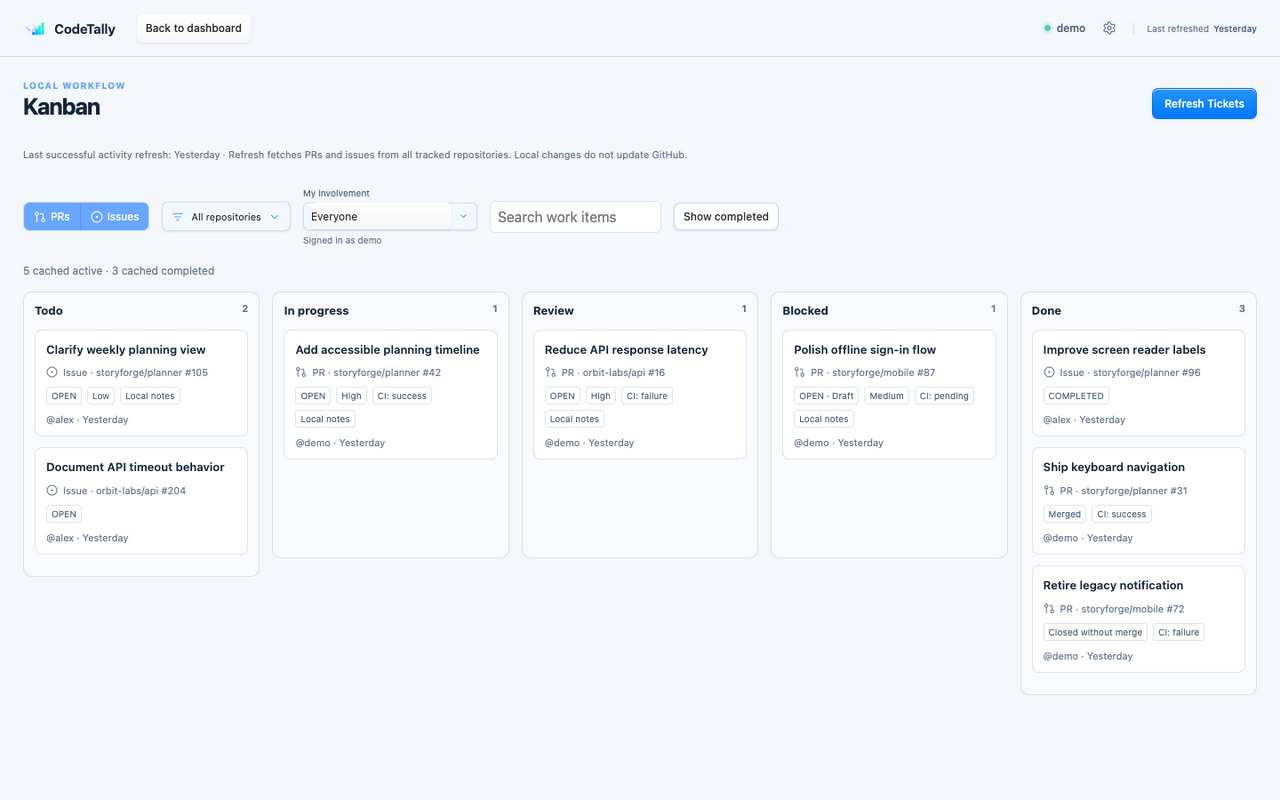
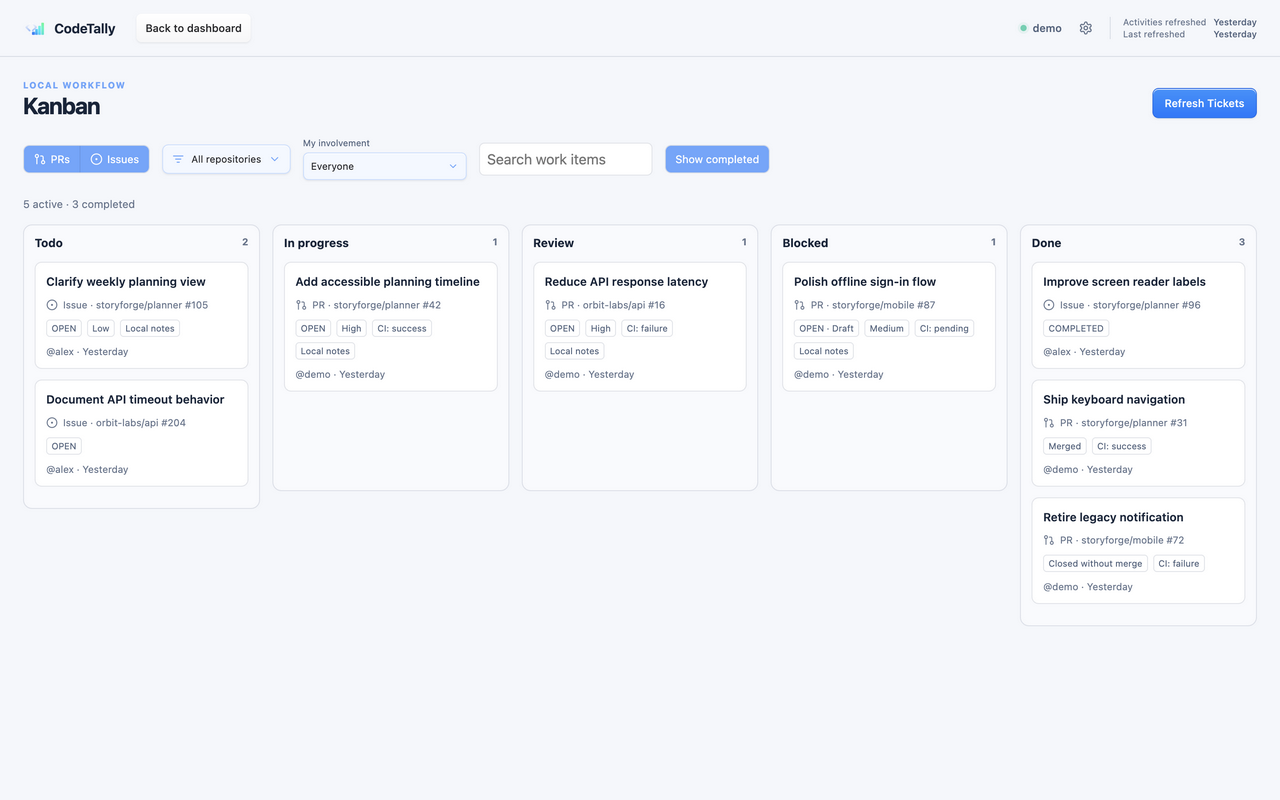
Refine Kanban filters and activity refresh status

diff --git a/src/App.tsx b/src/App.tsx
@@ -2,7 +2,7 @@ import { listen } from '@tauri-apps/api/event'
 import { useCallback, useEffect, useLayoutEffect, useMemo, useRef, useState, type CSSProperties } from 'react'
 import { AreaChart, CartesianGrid, Line, LineChart, ResponsiveContainer, Tooltip, XAxis, YAxis } from 'recharts'
 import { AlertCircle, ArrowDown, ArrowLeft, ArrowUp, BarChart3, Check, ChevronDown, ChevronUp, CircleDot, ExternalLink, GitBranch, GitPullRequest, Github, HardDrive, ListFilter, LoaderCircle, Settings, Terminal, X, Zap } from 'lucide-react'
-import { checkDependencies, discoverRepositories, getActivityFeed, getAppSettings, getDashboard, getGithubUser, getLocHistory, getSyncProgress, openExternalUrl, setAppSettings, syncActivity, syncGithubData, syncWorkItems } from './api'
+import { checkDependencies, discoverRepositories, getActivityFeed, getActivityRefreshAt, getAppSettings, getDashboard, getGithubUser, getLocHistory, getSyncProgress, openExternalUrl, setAppSettings, syncActivity, syncGithubData, syncWorkItems } from './api'
 import type { ActivityRelationship, AppSettings, DashboardData, DependencyStatus, FeedKind, Issue, LocSnapshot, PullRequest, Repository, SyncProgress, TimeRange } from './types'
 import { aggregateHistory, filterIssues, filterPullRequests, isDraft, isMerged, sortRepositories, type FeedState } from './model'
 import { activityRepo, exactDate, formatCompact, formatCount, formatSigned, normalizeDashboard, normalizeLabels, relativeTime, repoActivity, repoBaseline30Available, repoChange, repoChangePercent, repoForks, repoLocAvailable, repoName, repoOpenIssues, repoOpenPrs, repoSource, repoStars, repoTests, repoTotal, repositoryId, repositoryLabel } from './utils'
@@ -226,6 +226,21 @@ function App() {
     }
   }, [applyDashboard, screen, selectedRepoId])
 
+  const refreshActivityTimestamp = useCallback(() => {
+    void getActivityRefreshAt().then((timestamp) => {
+      setDashboard((current) => {
+        const existing = current.last_activity_refresh_at
+        if (existing && (!timestamp || new Date(existing).getTime() > new Date(timestamp).getTime())) return current
+        return { ...current, last_activity_refresh_at: timestamp }
+      })
+    }).catch(() => undefined)
+  }, [])
+
+  const refreshActivityCache = useCallback(() => {
+    setFeedRevision((current) => current + 1)
+    refreshActivityTimestamp()
+  }, [refreshActivityTimestamp])
+
   const refreshData = useCallback(async (automatic = false) => {
     if (syncingRef.current || importingRef.current) return
     syncingRef.current = true
@@ -321,7 +336,7 @@ function App() {
         } else if (wasRunning) {
           wasRunning = false
           if (workItemsOnly || progress.phase === 'work_items_complete') {
-            setFeedRevision((current) => current + 1)
+            refreshActivityCache()
           } else await loadFinalData()
           workItemsOnly = false
         }
@@ -338,7 +353,7 @@ function App() {
     const timer = window.setInterval(() => void poll(), 2000)
     window.addEventListener('focus', onFocus)
     return () => { alive = false; unlisten?.(); window.clearInterval(timer); window.removeEventListener('focus', onFocus) }
-  }, [loadFinalData, refreshCachedData])
+  }, [loadFinalData, refreshCachedData, refreshActivityCache])
 
   useEffect(() => {
     if (!syncing && !importing) return
@@ -624,13 +639,20 @@ function App() {
               if (!syncPopoverPinned && !event.currentTarget.contains(event.relatedTarget as Node | null)) setSyncPopoverOpen(false)
             }}
           >
-            <div className="refresh-timestamps" tabIndex={0} aria-label="Last refresh">
-              <span title={dashboard.last_full_refresh_at ? exactDate(dashboard.last_full_refresh_at) : 'No successful Repo Refresh or Force Refresh has completed. Partial or failed attempts do not set this time.'}>Last refreshed <strong>{dashboard.last_full_refresh_at ? relativeTime(dashboard.last_full_refresh_at) : 'Not recorded'}</strong></span>
+            <div className="refresh-timestamps" tabIndex={0} aria-label="Refresh times">
+              <div className="refresh-timestamp-list">
+                <span title={dashboard.last_activity_refresh_at ? exactDate(dashboard.last_activity_refresh_at) : 'No successful all-repository PR and issue refresh has completed.'}>Activities refreshed <strong>{dashboard.last_activity_refresh_at ? relativeTime(dashboard.last_activity_refresh_at) : 'Not recorded'}</strong></span>
+                <span title={dashboard.last_full_refresh_at ? exactDate(dashboard.last_full_refresh_at) : 'No successful Repo Refresh or Force Refresh has completed. Partial or failed attempts do not set this time.'}>Last refreshed <strong>{dashboard.last_full_refresh_at ? relativeTime(dashboard.last_full_refresh_at) : 'Not recorded'}</strong></span>
+              </div>
               {syncActive && <span className="refresh-running" role="status" aria-label={importing ? 'Importing' : 'Refreshing'}><LoaderCircle size={13} className="spin" aria-hidden="true" /></span>}
             </div>
             {syncDetailsAvailable && syncPopoverOpen && <div className="sync-popover" role="dialog" aria-label={syncActive ? 'Refresh details' : 'Last refresh'}>
               <div className="sync-popover-heading"><span>{syncActive ? 'Refresh details' : 'Last refresh'}</span><button className="icon-button subtle" type="button" aria-label="Close refresh details" onClick={() => { syncPopoverDismissedRef.current = true; setSyncPopoverOpen(false); setSyncPopoverPinned(false) }}><X size={14} /></button></div>
-              {syncActive ? <SyncProgressPanel progress={syncPopoverProgress} /> : <time className="sync-popover-date" dateTime={dashboard.last_full_refresh_at ?? undefined}>{dashboard.last_full_refresh_at ? exactDate(dashboard.last_full_refresh_at) : 'Not recorded'}</time>}
+              <div className="sync-popover-timestamps">
+                <div><span>Activities refreshed</span><time dateTime={dashboard.last_activity_refresh_at ?? undefined}>{dashboard.last_activity_refresh_at ? exactDate(dashboard.last_activity_refresh_at) : 'Not recorded'}</time></div>
+                <div><span>Last refreshed</span><time dateTime={dashboard.last_full_refresh_at ?? undefined}>{dashboard.last_full_refresh_at ? exactDate(dashboard.last_full_refresh_at) : 'Not recorded'}</time></div>
+              </div>
+              {syncActive && <SyncProgressPanel progress={syncPopoverProgress} />}
             </div>}
           </div>
         </div>
@@ -640,7 +662,7 @@ function App() {
 
       {busy && !dashboard.repositories.length ? <LoadingScreen /> : isSetup ? <SetupScreen deps={deps} login={login} error={error} importing={importing} importStep={importStep} checking={checkingDependencies} onImport={() => void importRepositories()} onRetry={checkSetupConnection} /> : (
         <div className={screen === 'kanban' && appSettings.kanban_enabled ? 'content-shell kanban-shell' : 'content-shell'}>
-          {screen === 'kanban' && appSettings.kanban_enabled ? <KanbanBoard repositories={activeRepositories} login={login} relationship={feedRelationship} onRelationship={handleFeedRelationship} onBack={backToDashboard} revision={feedRevision} /> : screen === 'dashboard' ? (
+          {screen === 'kanban' && appSettings.kanban_enabled ? <KanbanBoard repositories={activeRepositories} login={login} relationship={feedRelationship} onRelationship={handleFeedRelationship} onBack={backToDashboard} onActivityRefreshed={refreshActivityTimestamp} revision={feedRevision} /> : screen === 'dashboard' ? (
             <main className="main-column">
               {deps.gh && !dependenciesAuthenticated(deps) && <GitHubConnection deps={deps} login={login} compact checking={checkingDependencies} onRetry={checkSetupConnection} />}
               {activeRepositories.length === 0 ? <EmptySelectionState onOpenSettings={() => setSettingsOpen(true)} /> : <>
@@ -653,7 +675,7 @@ function App() {
           ) : selectedRepo ? (
             <RepositoryDetails repo={selectedRepo} history={visibleHistory} historyLoading={detailLoading} metric={metric} range={range} onMetric={setMetric} onRange={setRange} onBack={backToDashboard} pullRequests={detailPrs} issues={detailIssues} onOpenUrl={(url) => void openUrl(url, setError)} />
           ) : null}
-          {screen !== 'kanban' && <ActivitySidebar asOf={feedRelationship === 'everyone' ? dashboard.last_activity_refresh_at : dashboard.last_personal_refresh_at} onActivityRefreshed={() => setFeedRevision((current) => current + 1)} syncBusy={syncActive} activityProgress={syncProgress} login={login} kind={feedKind} state={feedState} relationship={feedRelationship} repository={feedRepo} lockedRepository={screen === 'detail' && selectedRepo ? String(repositoryId(selectedRepo)) : null} repositories={activeRepositories} prs={filteredPrs} issues={filteredIssues} onKind={handleFeedKind} onState={handleFeedState} onRelationship={handleFeedRelationship} onRepository={handleFeedRepository} onOpenUrl={(url) => void openUrl(url, setError)} />}
+          {screen !== 'kanban' && <ActivitySidebar asOf={feedRelationship === 'everyone' ? dashboard.last_activity_refresh_at : dashboard.last_personal_refresh_at} onActivityRefreshed={refreshActivityCache} syncBusy={syncActive} activityProgress={syncProgress} login={login} kind={feedKind} state={feedState} relationship={feedRelationship} repository={feedRepo} lockedRepository={screen === 'detail' && selectedRepo ? String(repositoryId(selectedRepo)) : null} repositories={activeRepositories} prs={filteredPrs} issues={filteredIssues} onKind={handleFeedKind} onState={handleFeedState} onRelationship={handleFeedRelationship} onRepository={handleFeedRepository} onOpenUrl={(url) => void openUrl(url, setError)} />}
         </div>
       )}
 
@@ -701,7 +723,8 @@ function SyncProgressPanel({ progress }: { progress: SyncProgress }) {
   const counts = progressCounts(progress)
   const overallLabel = counts.repositoriesTotal > 0 ? `Repositories ${counts.repositoriesCurrent} / ${counts.repositoriesTotal}` : 'Waiting for repository count'
   const samplesLabel = counts.snapshotsTotal > 0 ? `Lines scanned ${counts.snapshotsCurrent} / ${counts.snapshotsTotal}` : null
-  return <section className="sync-progress-panel" aria-live="polite"><div className="sync-progress-heading"><div><p className="eyebrow">{progress.running ? readablePhase(progress.phase) : 'Last refresh'}</p><strong>{progress.message || readablePhase(progress.phase)}</strong>{progress.repository_name && <span>{progress.repository_name}</span>}</div><span className={progress.running ? 'sync-progress-state active' : 'sync-progress-state'}>{progress.running ? 'Updating' : 'Updated'}</span>{progress.error && <div className="sync-progress-error"><AlertCircle size={13} /> {progress.error}</div>}</div><div className="sync-progress-bars"><div className="sync-progress-row"><div><span>Repository progress</span><b>{overallLabel}</b></div><ProgressMeter value={counts.repositoriesCurrent} max={counts.repositoriesTotal} label="Repository progress" /></div><div className="sync-progress-row samples"><div><span>Current line scan</span><b>{samplesLabel ?? 'Waiting to scan lines'}</b></div><ProgressMeter value={counts.snapshotsCurrent} max={counts.snapshotsTotal} label="Current line scan progress" /></div></div></section>
+  const activityOnly = progress.phase.includes('work_items')
+  return <section className="sync-progress-panel" aria-live="polite"><div className="sync-progress-heading"><div><p className="eyebrow">{progress.running ? readablePhase(progress.phase) : 'Last refresh'}</p><strong>{progress.message || readablePhase(progress.phase)}</strong>{progress.repository_name && <span>{progress.repository_name}</span>}</div><span className={progress.running ? 'sync-progress-state active' : 'sync-progress-state'}>{progress.running ? 'Updating' : 'Updated'}</span>{progress.error && <div className="sync-progress-error"><AlertCircle size={13} /> {progress.error}</div>}</div><div className="sync-progress-bars"><div className="sync-progress-row"><div><span>Repository progress</span><b>{overallLabel}</b></div><ProgressMeter value={counts.repositoriesCurrent} max={counts.repositoriesTotal} label="Repository progress" /></div>{!activityOnly && <div className="sync-progress-row samples"><div><span>Current line scan</span><b>{samplesLabel ?? 'Waiting to scan lines'}</b></div><ProgressMeter value={counts.snapshotsCurrent} max={counts.snapshotsTotal} label="Current line scan progress" /></div>}</div></section>
 }
 
 function SetupScreen({ deps, login, error, importing, importStep, checking, onImport, onRetry }: { deps: DependencyStatus; login: string; error: string | null; importing: boolean; importStep: string; checking: boolean; onImport: () => void; onRetry: () => void | Promise<void> }) {
@@ -894,7 +917,7 @@ function ActivitySidebar({ asOf, onActivityRefreshed, syncBusy, activityProgress
   const effectiveAsOf = refreshedAt && (!asOf || new Date(refreshedAt).getTime() > new Date(asOf).getTime()) ? refreshedAt : asOf
   const feed = kind === 'prs' ? prs : issues
   const selectedRepository = lockedRepository ?? repository
-  return <aside className="activity-sidebar"><div className="sidebar-sticky"><div className="sidebar-heading"><div><p className="eyebrow">Live feed <span className="feed-count">{feed.length}</span></p><h2>Recent activity</h2></div><button className="button primary compact activity-refresh-button" disabled={syncBusy || refreshing} title="Fetch PRs and issues from all tracked repositories without scanning lines of code" onClick={() => void refreshActivity()}>{refreshing ? 'Refreshing…' : 'Refresh Tickets'}</button></div><p className="activity-as-of" title={exactDate(effectiveAsOf)}>{relationship === 'everyone' ? 'All tracked activity' : 'Personal activity'} · As of {effectiveAsOf ? relativeTime(effectiveAsOf) : 'Not recorded'}</p>{refreshing || refreshMessage ? <p className="small-note" role="status">{refreshing && activityProgress?.phase.includes('work_items') ? activityProgress.message : refreshMessage}</p> : null}{refreshError && <p className="activity-refresh-error" role="alert">{refreshError}</p>}<div className="feed-tabs" role="tablist"><button className={kind === 'prs' ? 'active' : ''} onClick={() => onKind('prs')}><GitPullRequest size={14} aria-hidden="true" />Pull requests</button><button className={kind === 'issues' ? 'active' : ''} onClick={() => onKind('issues')}><CircleDot size={14} aria-hidden="true" />Issues</button></div><div className="feed-filters"><div className="filter-pills">{(kind === 'prs' ? (['all', 'open', 'merged'] as FeedState[]) : (['all', 'open', 'closed'] as FeedState[])).map((key) => <button key={key} className={state === key ? 'active' : ''} onClick={() => onState(key)}>{key[0].toUpperCase() + key.slice(1)}</button>)}</div><ActivityInvolvementFilter id="activity-involvement-select" value={relationship} login={login} onChange={onRelationship} /><ActivityRepositoryMenu repositories={repositories} login={login} value={selectedRepository} disabled={Boolean(lockedRepository)} onChange={onRepository} /></div></div><div className="feed-list">{feed.length ? feed.map((item) => kind === 'prs' ? <PullRequestItem key={`${activityRepo(item)}-${item.number}`} item={item} onOpen={() => onOpenUrl(item.url)} /> : <IssueItem key={`${activityRepo(item)}-${item.number}`} item={item} onOpen={() => onOpenUrl(item.url)} />) : <div className="feed-empty"><CircleDot size={21} /><p>No {kind === 'prs' ? 'pull requests' : 'issues'} match these filters</p><span>Activity will appear here after the next refresh.</span></div>}</div></aside>
+  return <aside className="activity-sidebar"><div className="sidebar-sticky"><div className="sidebar-heading"><div><p className="eyebrow">Live feed <span className="feed-count">{feed.length}</span></p><h2>Recent activity</h2></div><button className="button primary compact activity-refresh-button" disabled={syncBusy || refreshing} title="Fetch PRs and issues from all tracked repositories without scanning lines of code" onClick={() => void refreshActivity()}>{refreshing ? 'Refreshing…' : 'Refresh Tickets'}</button></div><p className="activity-as-of" title={exactDate(effectiveAsOf)}>{relationship === 'everyone' ? 'All tracked activity' : 'Personal activity'} · As of {effectiveAsOf ? relativeTime(effectiveAsOf) : 'Not recorded'}</p>{refreshing || refreshMessage ? <p className="small-note" role="status">{refreshing && activityProgress?.phase.includes('work_items') ? activityProgress.message : refreshMessage}</p> : null}{refreshError && <p className="activity-refresh-error" role="alert">{refreshError}</p>}<div className="feed-tabs" role="tablist"><button className={kind === 'prs' ? 'active' : ''} onClick={() => onKind('prs')}><GitPullRequest size={14} aria-hidden="true" />Pull requests</button><button className={kind === 'issues' ? 'active' : ''} onClick={() => onKind('issues')}><CircleDot size={14} aria-hidden="true" />Issues</button></div><div className="feed-filters"><div className="filter-pills">{(kind === 'prs' ? (['all', 'open', 'merged'] as FeedState[]) : (['all', 'open', 'closed'] as FeedState[])).map((key) => <button key={key} className={state === key ? 'active' : ''} onClick={() => onState(key)}>{key[0].toUpperCase() + key.slice(1)}</button>)}</div><ActivityInvolvementFilter id="activity-involvement-select" value={relationship} onChange={onRelationship} /><ActivityRepositoryMenu repositories={repositories} login={login} value={selectedRepository} disabled={Boolean(lockedRepository)} onChange={onRepository} /></div></div><div className="feed-list">{feed.length ? feed.map((item) => kind === 'prs' ? <PullRequestItem key={`${activityRepo(item)}-${item.number}`} item={item} onOpen={() => onOpenUrl(item.url)} /> : <IssueItem key={`${activityRepo(item)}-${item.number}`} item={item} onOpen={() => onOpenUrl(item.url)} />) : <div className="feed-empty"><CircleDot size={21} /><p>No {kind === 'prs' ? 'pull requests' : 'issues'} match these filters</p><span>Activity will appear here after the next refresh.</span></div>}</div></aside>
 }
 
 function PullRequestItem({ item, onOpen }: { item: PullRequest; onOpen: () => void }) {

diff --git a/src/__tests__/App.test.tsx b/src/__tests__/App.test.tsx
@@ -278,6 +278,8 @@ function configureBackend({ dependencies = readyDependencies, syncResult = syncO
         }
       case 'get_dashboard':
         return dashboards[Math.min(dashboardIndex++, dashboards.length - 1)]
+      case 'get_activity_refresh_at':
+        return cachedDashboard.last_activity_refresh_at ?? null
       case 'discover_repositories':
         return null
       case 'get_loc_history': {
@@ -405,7 +407,7 @@ describe('dashboard UI', () => {
   })
   it('refreshes PRs and issues from the sidebar while Kanban is disabled without loading history', async () => {
     const backend = invokeMock.getMockImplementation()!
-    invokeMock.mockImplementation((command, args) => command === 'sync_work_items' ? Promise.resolve({ ...syncOk, message: 'Activity refresh finished' }) : backend(command, args))
+    invokeMock.mockImplementation((command, args) => command === 'sync_work_items' ? Promise.resolve({ ...syncOk, message: 'Activity refresh finished' }) : command === 'get_activity_refresh_at' ? Promise.resolve('2026-09-28T14:30:00Z') : backend(command, args))
     const user = await renderDashboard()
     const refresh = screen.getByRole('button', { name: 'Refresh Tickets' })
     await waitFor(() => expect(refresh).toBeEnabled())
@@ -413,6 +415,9 @@ describe('dashboard UI', () => {
     await user.click(refresh)
     await screen.findByText('Activity refresh finished')
     expect(invokeMock).toHaveBeenCalledWith('sync_work_items', undefined)
+    expect(invokeMock).toHaveBeenCalledWith('get_activity_refresh_at', undefined)
+    const titlebar = screen.getByRole('banner')
+    await waitFor(() => expect(within(titlebar).getByText('Activities refreshed').closest('span')).toHaveAttribute('title', expect.not.stringContaining('No successful')))
     expect(invokeMock.mock.calls.filter(([command]) => command === 'get_loc_history')).toHaveLength(histories)
     expect(screen.queryByRole('button', { name: /Kanban Board/ })).not.toBeInTheDocument()
   })
@@ -961,7 +966,7 @@ describe('dashboard UI', () => {
 
     try {
       await screen.findByRole('heading', { name: 'Code at a glance' })
-      const trigger = await screen.findByLabelText('Last refresh')
+      const trigger = await screen.findByLabelText('Refresh times')
 
       fireEvent.focus(trigger)
       expect(await screen.findByText(/Repositories 1 \/ 2/)).toBeInTheDocument()
@@ -987,9 +992,10 @@ describe('dashboard UI', () => {
       const titlebar = screen.getByRole('banner')
       expect(within(titlebar).queryByRole('button', { name: /Refresh/ })).not.toBeInTheDocument()
       expect(within(titlebar).getByText('Last refreshed')).toBeInTheDocument()
+      expect(within(titlebar).getByText('Activities refreshed')).toBeInTheDocument()
       expect(within(titlebar).queryByText('Line counts')).not.toBeInTheDocument()
       expect(within(titlebar).queryByText('Everything')).not.toBeInTheDocument()
-      expect(within(titlebar).getByText('Not recorded')).toBeInTheDocument()
+      expect(within(titlebar).getAllByText('Not recorded')).toHaveLength(2)
       expect(within(titlebar).getByText('Last refreshed').closest('span')).toHaveAttribute('title', 'No successful Repo Refresh or Force Refresh has completed. Partial or failed attempts do not set this time.')
       expect(screen.getByText('Personal activity · As of Not recorded')).toBeInTheDocument()
       await user.click(screen.getByRole('button', { name: 'Settings' }))
@@ -1006,12 +1012,27 @@ describe('dashboard UI', () => {
   it('shows only the last successful broad refresh date when idle', async () => {
     configureBackend({ cachedDashboard: { ...dashboard, last_full_refresh_at: '2026-09-27T10:30:00Z' }, progress: { running: false, phase: 'complete', current: 1, total: 1, repository_name: 'sam/old-repository', message: 'Ready' } })
     await renderDashboard()
-    fireEvent.focus(screen.getByLabelText('Last refresh'))
+    fireEvent.focus(screen.getByLabelText('Refresh times'))
     const details = await screen.findByRole('dialog', { name: 'Last refresh' })
     expect(within(details).getByText('Last refresh')).toBeInTheDocument()
-    expect(details.querySelector('time')).toHaveAttribute('dateTime', '2026-09-27T10:30:00Z')
+    expect(within(details).getByText('Activities refreshed').parentElement?.querySelector('time')).not.toHaveAttribute('dateTime')
+    expect(within(details).getByText('Last refreshed').parentElement?.querySelector('time')).toHaveAttribute('dateTime', '2026-09-27T10:30:00Z')
     expect(within(details).queryByText('Ready')).not.toBeInTheDocument()
     expect(within(details).queryByText('sam/old-repository')).not.toBeInTheDocument()
+  })
+
+  it('shows activity-only progress without a line scan', async () => {
+    const sync = deferred<SyncResult>()
+    configureBackend({ activitySyncPromise: sync.promise, progress: { running: true, phase: 'syncing_work_items', current: 1, total: 3, repository_current: 1, repository_total: 3, message: 'Refreshing PRs and issues' } })
+    try {
+      await renderDashboard()
+      fireEvent.focus(screen.getByLabelText('Refresh times'))
+      const details = await screen.findByRole('dialog', { name: 'Refresh details' })
+      expect(within(details).getByText('Refreshing PRs and issues')).toBeInTheDocument()
+      expect(within(details).getByRole('progressbar', { name: 'Repository progress' })).toBeInTheDocument()
+      expect(within(details).queryByText('Current line scan')).not.toBeInTheDocument()
+      expect(within(details).queryByRole('progressbar', { name: 'Current line scan progress' })).not.toBeInTheDocument()
+    } finally { sync.resolve(syncOk) }
   })
 
   it('returns to an idle Refresh control after completed automatic sync progress', async () => {
@@ -1691,7 +1712,7 @@ describe('dashboard UI', () => {
         for (let index = 0; index < 12; index += 1) await Promise.resolve()
       })
       expect(screen.getByRole('heading', { name: 'Code at a glance' })).toBeInTheDocument()
-      fireEvent.focus(screen.getByLabelText('Last refresh'))
+      fireEvent.focus(screen.getByLabelText('Refresh times'))
       const firstProgress = screen.getByText(/Repositories 1 \/ 7/)
       const firstPanel = firstProgress.closest('.sync-progress-panel')
       expect(firstPanel).not.toBeNull()
@@ -1774,7 +1795,7 @@ describe('dashboard UI', () => {
       expect(await screen.findByRole('heading', { name: 'Code at a glance' })).toBeInTheDocument()
       expect(screen.getByRole('heading', { name: 'Total Lines' })).toBeInTheDocument()
       expect(screen.queryByText('No LOC history for this range')).not.toBeInTheDocument()
-      fireEvent.focus(screen.getByLabelText('Last refresh'))
+      fireEvent.focus(screen.getByLabelText('Refresh times'))
       expect(screen.getByText(/Repositories 1 \/ 2/)).toBeInTheDocument()
 
       const dashboardCalls = invokeMock.mock.calls.filter(([command]) => command === 'get_dashboard')

diff --git a/src/kanban/KanbanBoard.tsx b/src/kanban/KanbanBoard.tsx
@@ -7,7 +7,7 @@ import type { ActivityRelationship, KanbanItem, KanbanKind, KanbanLinks, KanbanM
 import { relativeTime, repositoryId } from '../utils'
 import { COLUMNS, columnFor, isGitHubWorkUrl, type Column } from './model'
 
-export default function KanbanBoard({ repositories, login, relationship: defaultRelationship, revision }: { repositories: Repository[]; login: string; relationship: ActivityRelationship; onRelationship: (value: ActivityRelationship) => void; onBack: () => void; revision: number }) {
+export default function KanbanBoard({ repositories, login, relationship: defaultRelationship, revision, onActivityRefreshed }: { repositories: Repository[]; login: string; relationship: ActivityRelationship; onRelationship: (value: ActivityRelationship) => void; onBack: () => void; revision: number; onActivityRefreshed: () => void }) {
   const [kind, setKind] = useState<KanbanKind>('both')
   const [scope, setScope] = useState('all')
   const [relationship, setRelationship] = useState(defaultRelationship)
@@ -169,20 +169,19 @@ export default function KanbanBoard({ repositories, login, relationship: default
     let failure = ''
     try { const result = await syncWorkItems(); if (!result.ok || result.errors.length) failure = [result.message, ...result.errors].join(' ') }
     catch (reason) { failure = String(reason) }
-    finally { await load(); if (failure) setError(failure); setRefreshing(false) }
+    finally { await load(); onActivityRefreshed(); if (failure) setError(failure); setRefreshing(false) }
   }
   const item = page?.items.find((row) => row.item_key === selected)
   const draggedItem = page?.items.find((row) => row.item_key === draggedKey)
   return <main className="kanban-main">
-    <div className="page-heading"><div><p className="eyebrow">Local workflow</p><h1>Kanban</h1></div><button className="button primary" disabled={refreshing || loading || pending.size > 0} onClick={() => void refresh()}>{refreshing ? 'Refreshing…' : 'Refresh Tickets'}</button></div>
-    <p className="small-note">Last successful activity refresh: {relativeTime(page?.last_successful_refresh)} · Refresh fetches PRs and issues from all tracked repositories. Local changes do not update GitHub.</p>
+    <div className="page-heading"><div><p className="eyebrow">Local workflow</p><h1>Kanban</h1></div><button className="button primary" title="Refresh PRs and issues from all tracked repositories, regardless of board filters, without scanning lines of code" disabled={refreshing || loading || pending.size > 0} onClick={() => void refresh()}>{refreshing ? 'Refreshing…' : 'Refresh Tickets'}</button></div>
     <div className="kanban-filters"><div className="kanban-kind-buttons" role="group" aria-label="Ticket types"><button className={kind === 'prs' || kind === 'both' ? 'active' : ''} aria-pressed={kind === 'prs' || kind === 'both'} onClick={() => setKind(kind === 'both' ? 'issues' : kind === 'prs' ? 'none' : kind === 'issues' ? 'both' : 'prs')}><GitPullRequest size={14} aria-hidden="true" /> PRs</button><button className={kind === 'issues' || kind === 'both' ? 'active' : ''} aria-pressed={kind === 'issues' || kind === 'both'} onClick={() => setKind(kind === 'both' ? 'prs' : kind === 'issues' ? 'none' : kind === 'prs' ? 'both' : 'issues')}><CircleDot size={14} aria-hidden="true" /> Issues</button></div>
       <ActivityRepositoryMenu repositories={repositories} login={login} value={scope} disabled={false} onChange={setScope} />
-      <ActivityInvolvementFilter id="kanban-involvement-select" value={relationship} login={login} onChange={setRelationship} />
+      <ActivityInvolvementFilter id="kanban-involvement-select" value={relationship} onChange={setRelationship} />
       <input aria-label="Search board" placeholder="Search work items" value={search} onChange={(event) => setSearch(event.target.value)} />
-      <button className={completed ? 'button secondary compact kanban-completed active' : 'button secondary compact kanban-completed'} aria-pressed={completed} onClick={() => setCompleted(!completed)}>Show completed</button>
+      <div className="kanban-kind-buttons"><button className={completed ? 'active' : ''} aria-pressed={completed} onClick={() => setCompleted(!completed)}>Show completed</button></div>
     </div>
-    <div className="kanban-summary" aria-live="polite"><span>{page?.active_count ?? 0} cached active · {page?.completed_count ?? 0} cached completed</span>{loading && <span>Loading board…</span>}</div>
+    <div className="kanban-summary" aria-live="polite"><span>{page?.active_count ?? 0} active · {page?.completed_count ?? 0} completed</span>{loading && <span>Loading board…</span>}</div>
     {blockedMove && <div role="alert" className="kanban-notice">Done reflects GitHub completion. Close or reopen this item on GitHub.<button className="button secondary compact" disabled={!isGitHubWorkUrl(blockedMove.url)} onClick={() => void openExternalUrl(blockedMove.url).catch((reason) => setError(String(reason)))}>Open in GitHub</button><button className="button secondary compact" onClick={() => setBlockedMove(null)}>Dismiss</button></div>}
     {error && <div role="alert" className="error-banner">{error}</div>}
     {page?.partial && <div role="status" className="kanban-notice">Activity data is partial. {page.errors.join(' ')}</div>}

diff --git a/src/styles.css b/src/styles.css
@@ -45,7 +45,10 @@ button { color: inherit; }
 .sync-popover { position: absolute; z-index: 40; top: calc(100% + 12px); right: -10px; width: min(360px, calc(100vw - 40px)); padding: 10px; background: var(--panel-2); border: 1px solid var(--line); border-radius: 9px; box-shadow: 0 18px 45px rgba(0, 0, 0, .34); }
 .sync-popover::before { content: ''; position: absolute; top: -6px; right: 22px; width: 10px; height: 10px; background: var(--panel-2); border-left: 1px solid var(--line); border-top: 1px solid var(--line); transform: rotate(45deg); }
 .sync-popover-heading { position: relative; z-index: 1; display: flex; align-items: center; justify-content: space-between; gap: 12px; padding: 0 2px 7px 4px; color: var(--subtle); font-size: 11px; font-weight: 650; }
-.sync-popover-date { display: block; padding: 5px 4px 8px; color: var(--subtle); font-size: 12px; }
+.sync-popover-timestamps { display: grid; gap: 7px; padding: 5px 4px 8px; }
+.sync-popover-timestamps > div { display: flex; justify-content: space-between; align-items: baseline; gap: 12px; font-size: 11px; }
+.sync-popover-timestamps span { color: var(--muted); }
+.sync-popover-timestamps time { color: var(--subtle); text-align: right; }
 .sync-popover .sync-progress-panel { position: relative; z-index: 1; margin: 0; padding: 8px 4px 3px; border: 0; border-radius: 0; background: transparent; display: block; min-height: 0; }
 .sync-popover .sync-progress-bars { margin-top: 14px; }
 .refresh-button { height: 40px; margin-left: -4px; align-items: center; }
@@ -205,7 +208,6 @@ td:first-child { padding-left: 18px; }
 .filter-pills button { flex: 1; padding: 6px 4px; font-size: 10px; }
 .activity-involvement-filter { display: flex; flex-direction: column; gap: 5px; }
 .activity-involvement-filter > label { color: var(--muted); font-size: 10px; }
-.activity-involvement-note { color: var(--muted); font-size: 10px; line-height: 1.3; }
 .select-wrap { min-width: 0; height: 31px; display: flex; align-items: center; gap: 7px; border: 1px solid var(--line); border-radius: 5px; padding: 0 8px; color: var(--muted); }
 .select-wrap select { color: var(--subtle); font-size: 11px; background: transparent; border: 0; outline: 0; min-width: 0; width: 100%; appearance: none; cursor: pointer; }
 .select-wrap select option { background: #121d2c; color: #d7e0ef; }
@@ -604,8 +606,8 @@ td:first-child { padding-left: 18px; }
 .kanban-kind-buttons { display: inline-flex; border: 1px solid var(--line); border-radius: 7px; overflow: hidden; }
 .kanban-kind-buttons button { display: inline-flex; align-items: center; gap: 5px; padding: 8px 11px; border: 0; border-right: 1px solid var(--line); background: var(--panel); color: var(--subtle); font-size: 12px; cursor: pointer; }
 .kanban-kind-buttons button:last-child { border-right: 0; }
-.kanban-kind-buttons button.active, .kanban-completed.active { background: var(--blue); color: white; }
-.kanban-kind-buttons button:focus-visible, .kanban-completed:focus-visible { outline: 2px solid var(--blue); outline-offset: 2px; }
+.kanban-kind-buttons button.active { background: var(--blue); color: white; }
+.kanban-kind-buttons button:focus-visible { outline: 2px solid var(--blue); outline-offset: 2px; }
 .kanban-summary { display: flex; gap: 20px; align-items: center; font-size: 12px; color: var(--muted); margin: 16px 0; }
 .kanban-columns { display: flex; gap: 14px; overflow-x: auto; padding-bottom: 20px; align-items: flex-start; }
 .kanban-column { flex: 1 0 210px; min-width: 210px; min-height: 300px; padding: 12px; border: 1px solid var(--line); border-radius: 10px; background: var(--panel-2); }
@@ -646,7 +648,8 @@ body.kanban-drag-active, body.kanban-drag-active * { cursor: grabbing !important
 .sidebar-heading .feed-count { font-size: 9px; padding: 1px 5px; }
 .activity-refresh-button { max-width: 128px; flex: 0 0 auto; line-height: 1.35; text-align: center; }
 .refresh-timestamps { display: inline-flex; align-items: center; gap: 9px; padding-left: 14px; border-left: 1px solid var(--line); font-size: 10px; color: var(--muted); white-space: nowrap; }
-.refresh-timestamps > span:first-child { display: inline-flex; align-items: center; gap: 5px; }
+.refresh-timestamp-list { display: grid; gap: 2px; }
+.refresh-timestamp-list > span { display: flex; justify-content: space-between; gap: 8px; }
 .refresh-timestamps strong { font-weight: 500; color: var(--subtle); }
 .refresh-timestamps .refresh-running { display: inline-flex; align-items: center; color: var(--blue); }
 .activity-as-of { margin: -7px 0 13px; font-size: 10px; color: var(--muted); }

diff --git a/src/__tests__/KanbanBoard.test.tsx b/src/__tests__/KanbanBoard.test.tsx
@@ -8,7 +8,7 @@ vi.mock('@tauri-apps/api/core', () => ({ invoke }))
 const item: KanbanItem = { item_key: 'pr:1:2', kind: 'pr', repository_id: 1, repository: 'sam/repo', number: 2, title: 'Review changes', state: 'open', is_draft: false, updated_at: '2026-09-27', url: 'https://github.com/sam/repo/pull/2', author: 'sam', assignees: [], ci_state: 'SUCCESS', closed_at: null, merged_at: null, completion_reason: null, manual_column: null, priority: 'None', notes: '', sort_rank: 0, revision: 0 }
 const preferences = { kind: 'both', repository_id: null, repository_scope: 'all', relationship: 'author', search: '', show_completed: false }
 const page = { items: [item], total: 1, active_count: 1, completed_count: 7, partial: false, errors: [] }
-const props = { repositories: [{ id: 1, name: 'repo', owner: 'sam' }], login: 'sam', relationship: 'author' as const, onRelationship: vi.fn(), onBack: vi.fn(), revision: 0 }
+const props = { repositories: [{ id: 1, name: 'repo', owner: 'sam' }], login: 'sam', relationship: 'author' as const, onRelationship: vi.fn(), onBack: vi.fn(), onActivityRefreshed: vi.fn(), revision: 0 }
 const hitTest = vi.fn()
 class TestPointerEvent extends MouseEvent {
   readonly pointerId: number
@@ -40,12 +40,15 @@ describe('local Kanban workflow', () => {
     await screen.findByText('Work 999')
     expect(invoke).toHaveBeenCalledWith('get_kanban_page', expect.objectContaining({ kind: 'both', show_completed: false, limit: 200 }))
     expect(screen.queryByRole('region', { name: 'Done column' })).not.toBeInTheDocument()
-    expect(screen.getByText('1 cached active · 7 cached completed')).toBeInTheDocument()
+    expect(screen.getByText('1 active · 7 completed')).toBeInTheDocument()
+    expect(screen.queryByText(/Signed in as/)).not.toBeInTheDocument()
+    expect(screen.queryByText(/Last successful activity refresh/)).not.toBeInTheDocument()
     fireEvent.click(screen.getByText('Load more (1000 of 1001)'))
     await screen.findByText('Beyond initial thousand')
     expect(invoke).toHaveBeenCalledWith('get_kanban_page', expect.objectContaining({ offset: 1000 }))
     fireEvent.click(screen.getByText('Refresh Tickets'))
     await waitFor(() => expect(invoke).toHaveBeenCalledWith('sync_work_items', undefined))
+    await waitFor(() => expect(props.onActivityRefreshed).toHaveBeenCalled())
     expect(invoke.mock.calls.some(([command]) => command === 'get_loc_history' || command === 'sync_github_data')).toBe(false)
   }, 15000)
   it('filters ticket types independently and keeps the completed control as a button', async () => {

diff --git a/src/ActivityInvolvementFilter.tsx b/src/ActivityInvolvementFilter.tsx
@@ -8,6 +8,6 @@ const OPTIONS: Array<{ value: ActivityRelationship; label: string }> = [
   { value: 'author_or_assignee', label: 'Authored or assigned to me' }
 ]
 
-export default function ActivityInvolvementFilter({ value, login, onChange, id }: { value: ActivityRelationship; login: string; onChange: (value: ActivityRelationship) => void; id: string }) {
-  return <div className="activity-involvement-filter"><label htmlFor={id}>My involvement</label><div className="select-wrap"><select id={id} aria-label="My involvement" value={value} onChange={(event) => onChange(event.target.value as ActivityRelationship)}>{OPTIONS.map((option) => <option key={option.value} value={option.value}>{option.label}</option>)}</select><ChevronDown size={14} /></div>{login && <span className="activity-involvement-note">Signed in as {login}</span>}</div>
+export default function ActivityInvolvementFilter({ value, onChange, id }: { value: ActivityRelationship; onChange: (value: ActivityRelationship) => void; id: string }) {
+  return <div className="activity-involvement-filter"><label htmlFor={id}>My involvement</label><div className="select-wrap"><select id={id} aria-label="My involvement" value={value} onChange={(event) => onChange(event.target.value as ActivityRelationship)}>{OPTIONS.map((option) => <option key={option.value} value={option.value}>{option.label}</option>)}</select><ChevronDown size={14} /></div></div>
 }

diff --git a/src/kanban/screenshotBackend.ts b/src/kanban/screenshotBackend.ts
@@ -34,6 +34,7 @@ export async function screenshotCall(command: string, args: Record<string, unkno
     case 'get_app_settings': return settings
     case 'set_app_settings': settings = args.settings as AppSettings; return settings
     case 'get_dashboard': return { user: { login: 'demo' }, repositories, totals: { repositories: 3, total_loc: 54500, source_loc: 43690, test_loc: 10810, loc_change_30d: 720, open_prs: 3, open_issues: 2 }, history: [], last_sync_at: now, last_lines_refresh_at: now, last_full_refresh_at: now, last_activity_refresh_at: now, last_personal_refresh_at: now, errors: [] }
+    case 'get_activity_refresh_at': return now
     case 'get_loc_history': return []
     case 'get_repository_selection': return repositories.map((repo) => ({ github_id: repo.github_id, name_with_owner: repo.name_with_owner, owner: repo.owner, group: 'company' }))
     case 'get_activity_feed': {

diff --git a/src/api.ts b/src/api.ts
@@ -156,6 +156,10 @@ export async function getSyncProgress(): Promise<SyncProgress> {
   return call<SyncProgress>('get_sync_progress')
 }
 
+export async function getActivityRefreshAt(): Promise<string | null> {
+  return call<string | null>('get_activity_refresh_at')
+}
+
 export async function syncRepository(repositoryId: number | string): Promise<unknown> {
   return call('sync_repository', { repo_id: repositoryId })
 }

diff --git a/src-tauri/src/commands.rs b/src-tauri/src/commands.rs
@@ -315,6 +315,11 @@ pub async fn get_dashboard(state: State<'_, AppState>) -> Result<Dashboard, Stri
     }).await.map_err(|error| error.to_string())?
 }
 
+#[tauri::command]
+pub fn get_activity_refresh_at(state: State<'_, AppState>) -> Result<Option<String>, String> {
+    state.database().metadata(sync::LAST_ACTIVITY_REFRESH_METADATA_KEY).map_err(|error| error.to_string())
+}
+
 #[tauri::command(rename_all = "snake_case")]
 pub async fn get_loc_history(state: State<'_, AppState>, repository_id: Option<i64>, range: Option<String>) -> Result<LocHistory, String> {
     let state = state.inner().clone();

diff --git a/src-tauri/src/lib.rs b/src-tauri/src/lib.rs
@@ -147,6 +147,7 @@ pub fn run() {
             commands::sync_repository,
             commands::backfill_loc,
             commands::get_sync_progress,
+            commands::get_activity_refresh_at,
             commands::get_repository_classification,
             commands::set_repository_classification,
             commands::get_dashboard,

diff --git a/README.md b/README.md
@@ -188,7 +188,7 @@ The board starts with both **PRs** and **Issues** selected. Each button can be s
 
 The fixed columns are **Todo**, **In progress**, **Review**, **Blocked**, and **Done**. Open issues automatically start in Todo, draft PRs in In progress, and other open PRs in Review. Review means review work, not GitHub approval or merge readiness; CI is shown separately as a badge. Drag open cards within or between active columns. With keyboard focus on a card, use Alt+arrow keys to move it. Set None/Low/Medium/High priority and save a plain-text note in its details. **Reset to automatic** removes a local column choice. These changes never edit GitHub. GitHub-closed issues and closed or merged PRs go to Done regardless of local placement; a closed PR is labeled **Closed without merge** unless GitHub reports a merge. Reopened items return to their previous manual active column, or their automatic column. To close, merge, or reopen anything, use **Open in GitHub**.
 
-Completed cards are hidden by default. The **Show completed** button reveals Done and cached completed history. The separate **cached active** and **cached completed** counts cover all matching cached cards, including those beyond the current page. Closed and merged cards never contribute to active count. **Load more** pages through the local cache past 1,000 items. **Refresh Tickets** updates ticket data and reloads the board cache. The board displays partial or stale import information separately from those exact cache counts, and cached items remain available offline. GitHub state appears after a successful refresh rather than through real-time webhooks. Automatic updates require CodeTally to be running and to complete a refresh.
+Completed cards are hidden by default. The **Show completed** button reveals Done and cached completed history. The separate **active** and **completed** counts cover all matching cached cards, including those beyond the current page. Closed and merged cards never contribute to active count. **Load more** pages through the local cache past 1,000 items. **Refresh Tickets** updates ticket data and reloads the board cache. The title bar shows the last successful activity refresh above the last Repo Refresh or Force Refresh; open its details for exact dates. The board displays partial or stale import information separately from those exact cache counts, and cached items remain available offline. GitHub state appears after a successful refresh rather than through real-time webhooks. Automatic updates require CodeTally to be running and to complete a refresh.
 
 Card details show local notes and a read-only section of explicit GitHub closing relationships when available. This is a bounded, cached view of closing links, not a claim to include all mentions or cross-references. A linked PR merging does not locally close an issue; the issue moves to Done only when its own GitHub state is refreshed as closed. Notes, priorities, placement, ordering, and filters stay on this computer. There is no cross-device sync, GitHub Projects integration, extra GitHub scope, per-repository installation, PAT, or new Actions secret. The existing `gh auth login` account and its repository permissions still determine which GitHub data is available.
 
@@ -199,7 +199,7 @@ These screenshots use fictional fixture repositories, tickets, and people in the
 | Active board across repositories | ![Active Kanban columns with fictional pull requests and issues from three repositories](docs/screenshots/kanban-overview.png) |
 | Card details | ![Local column, priority, notes, GitHub source state, and explicit linked work](docs/screenshots/kanban-item-details.png) |
 | Board and refresh settings | ![Kanban setting with local-storage explanation and separate refresh intervals](docs/screenshots/kanban-settings.png) |
-| Activity-only progress | ![Refresh Tickets progress for tracked repositories with unchanged line-count timestamps](docs/screenshots/kanban-activity-refresh.png) |
+| Activity-only progress | ![Refresh Tickets repository progress with exact refresh times and no line-scan progress](docs/screenshots/kanban-activity-refresh.png) |
 | Completed work | ![Done column with completed issue, merged PR, closed without merge PR, and unchanged active count](docs/screenshots/kanban-completed.png) |
 
 
